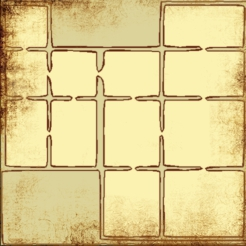
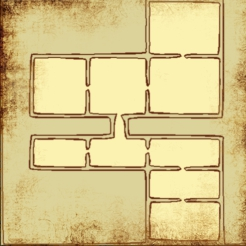
templates working

diff --git a/site/htdocs/game-world/generateCircularDungeonMap.php b/site/htdocs/game-world/generateCircularDungeonMap.php
@@ -1674,6 +1674,9 @@ $elevationString .= ']';
 
 // map templates in (add the {} to get it to convert):
 $collisions = json_decode('{'.$collisionsString.'}', true);
+
+
+
 $terrain = json_decode('{'.$terrainString.'}', true);
 $elevations = json_decode('{'.$elevationString.'}', true);
 
@@ -1683,18 +1686,20 @@ $templateHeight = count($templateJSON['template']['terrain']);
 $templateWidth = count($templateJSON['template']['terrain'][0]);
 
 
-echo($terrain[0]);
 
 $numberOfGraphicsAlreadyPlaced = count($dungeonDetails[$dungeonName]['graphics']);
 for ($i = 0; $i < $templateHeight; $i++) {
 for ($j = 0; $j < $templateWidth; $j++) {
-    if($templateJSON['template']['terrain'][$i][$j] == "*") {
-$terrain[$i+$templateOffsetY][$j+$templateOffsetX] = "*";
+   
+    if($templateJSON['template']['terrain'][$i][$j] === "*") {
+        
+$terrain['terrain'][$i+$templateOffsetY][$j+$templateOffsetX] = "*";
     } else {
-      $terrain[$i+$templateOffsetY][$j+$templateOffsetX] =   $numberOfGraphicsAlreadyPlaced + $templateJSON['template']['terrain'][$i][$j];
+       
+      $terrain['terrain'][$i+$templateOffsetY][$j+$templateOffsetX] = $numberOfGraphicsAlreadyPlaced + $templateJSON['template']['terrain'][$i][$j];
     }
 
-    $terrain[$i+$templateOffsetY][$j+$templateOffsetX] = "1";
+  
  
 }
 }
